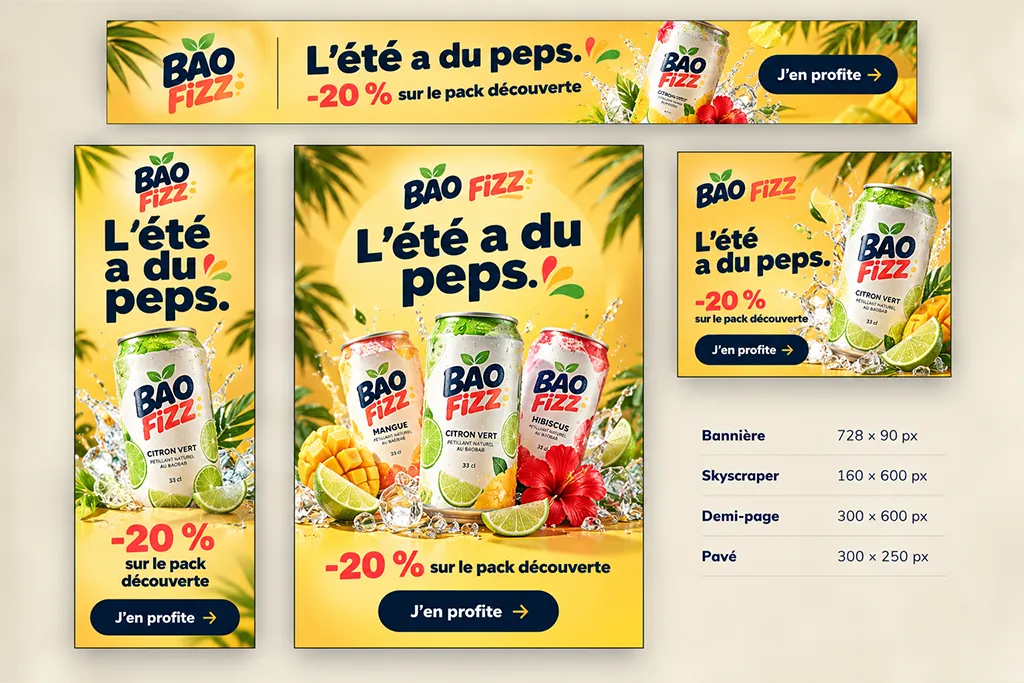
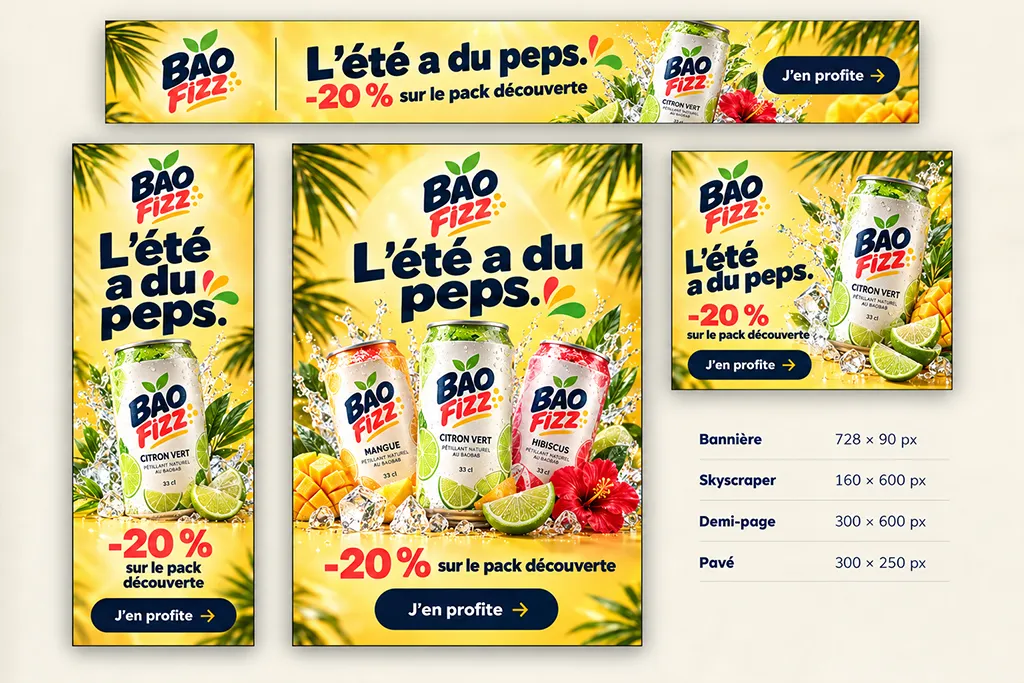
Bao Fizz : galerie finale du propriétaire ; historique prêt pour la mise en production
- Planche 2 remplacée, planches 3 et 4 retirées, fiche alignée (plus de newsletter)

- Historique : état actuel réécrit

diff --git a/HISTORIQUE.md b/HISTORIQUE.md
@@ -4,23 +4,23 @@ Document de passation entre sessions et entre assistants IA.
 Règles et organisation du projet : voir [AGENTS.md](AGENTS.md).
 **À mettre à jour à la fin de chaque session.**
 
-Dernière mise à jour : 03/10/2026
+Dernière mise à jour : 04/10/2026
 
 ## État actuel
 
-- **En production** (<https://gasinsary.github.io/>) : l'ancien site, en HTML écrit à la main (branche `main`, dernier commit `699624a`).
-- **Sur la version de test** (<https://gasinsary.github.io/staging-t4sj762s/>) : le site converti à Jekyll + la connexion Supabase (branche locale `staging`).
-- **En attente** : la validation de la version de test par le propriétaire, avant mise en production.
-- Attention : la branche `staging` n'existe que sur le dépôt de test et en local. Elle n'a pas été poussée sur le dépôt de production.
+- **En production depuis le 04/10/2026** (<https://gasinsary.github.io/>) : le site Jekyll complet (accueil réorienté vers les clients étrangers, portfolio avec les projets concept Voara et Bao Fizz, connexion Supabase). Mise en production demandée explicitement par le propriétaire. La branche `main` du dépôt de production et la branche `staging` pointent sur le même commit.
+- **Version de test** (<https://gasinsary.github.io/staging-t4sj762s/>) : identique à la production à cette date. Elle reste l'endroit où vérifier tout changement avant de le publier.
+- Avant cette date, la production affichait l'ancien site en HTML écrit à la main (commit `699624a`).
 
 ## En cours
 
-- **Pas de mise en production pour l'instant** (décision du propriétaire, 03/10/2026) : le site est d'abord mis à jour sur la version de test.
-- **Corrections de l'audit** : le propriétaire a validé l'ordre de traitement proposé à la fin de [AUDIT.md](AUDIT.md). Étapes 1 (contact), 2 (défauts mobiles), 3 (titres `<h1>`, textes, positionnement) et 4 (poids des pages) faites sur la version de test ; prochaine étape : 5 (contenu : ajouter des projets, dont des sites web, avec des titres précis). Elle dépend du propriétaire, qui doit fournir les projets.
-- **Formulaire de contact** : le propriétaire doit faire un envoi réel depuis la version de test pour confirmer que le message arrive et que la confirmation s'affiche.
-- **À faire valider par le propriétaire** : la relecture des textes réécrits, et le titre « Fondateur & directeur artistique » (proposé, appliqué, pas confirmé explicitement).
+- **Formulaire de contact** : jamais testé par un envoi réel. Le propriétaire doit envoyer un message depuis le site en production pour confirmer qu'il arrive et que la confirmation s'affiche.
+- **Affirmations publiées sans confirmation explicite du propriétaire** : échanges possibles en visio, devis « au projet ou à la journée », disponibilité pendant les heures de bureau européennes, « Français, anglais », titre « Fondateur & directeur artistique ». À corriger s'il en signale une fausse.
+- **Réponse à l'agence Digital Prod** : à rédiger avec le propriétaire (tarif journalier à fixer), maintenant que le portfolio est en ligne.
+- **Google Search Console** : déclarer `https://gasinsary.github.io/sitemap.xml` (à faire par le propriétaire).
+- **Audit** : étapes 1 à 4 faites, étape 5 (contenu) en partie avec les deux projets concept. Restent : page 404, contraste et accessibilité, refonte de « À propos » et des barres de compétences, une page par service.
 
-## Portfolio : projets concept pour l'agence Digital Prod (en cours)
+## Portfolio : projets concept pour l'agence Digital Prod (publiés)
 
 - **Contexte** : le 02/10/2026, le propriétaire a reçu un e-mail de milan@digitalprod.com (Digital Prod, agence parisienne de production de contenus digitaux) lui demandant sa disponibilité en freelance, son tarif journalier et un portfolio récent. L'agence est réelle (SIREN 511 233 595, domaine officiel `digitalprod.com`) ; l'appartenance de l'expéditeur à l'agence n'a pas pu être confirmée publiquement.
 - **Contrainte** : les vrais projets du propriétaire n'ont pas l'accord des clients pour être publiés. Décision : deux **projets concept** (marques fictives, annoncés comme tels), ciblés sur ce que l'agence produit (réseaux sociaux, bannières, e-mailing pour des marques de beauté et de grande consommation).
@@ -29,7 +29,7 @@ Dernière mise à jour : 03/10/2026
 - **Voara, suite** : le 03/10/2026 au soir, le propriétaire a remplacé la couverture et les quatre planches par ses propres versions retravaillées (flacon et fruit de baobab photoréalistes, emblème végétal ajouté au logo). Les fichiers de `briefs/voara-visuels/` et le script correspondent donc à l'ancienne version générée, plus à ce qui est en ligne. Le propriétaire a ensuite validé : outils Photoshop et Illustrator, `brouillon` retiré, projet affiché sur l'accueil (`accueil: true`), planche 4 remplacée par une version au logo harmonisé. **Le projet Voara est terminé et sera publié à la prochaine mise en production.**
 - **Bao Fizz** (04/10/2026) : direction artistique dans `briefs/bao-fizz-direction-artistique.html`. Les six formats (visuel principal, newsletter, quatre bannières) et les cinq planches ont été **générés par l'assistant** (script `briefs/outils/generer-visuels-bao-fizz.py`, Pillow) : canette et formes dessinées, aucune photographie. Fichiers dans `briefs/bao-fizz-visuels/` et `portfolio/campagne-publicitaire-bao-fizz/img/`. La fiche reste en **brouillon** tant que le propriétaire n'a pas validé ou remplacé les images, comme il l'a fait pour Voara.
 - **Bao Fizz, suite** (04/10/2026) : le propriétaire a remplacé la couverture et les quatre planches par ses versions (canettes et fruits photoréalistes, nouveau logo à feuilles) et en a ajouté deux : `planche-5` (direction artistique) et `planche-6` (posts Instagram). `brouillon` retiré : **le projet Bao Fizz est terminé et sera publié à la prochaine mise en production.** Il n'est pas affiché sur l'accueil (non demandé). `planche-6` a été fournie en 3000 × 3000 px : l'original est conservé dans `briefs/bao-fizz-visuels/originaux/`, la version du site est ramenée à 1024 × 683 px sur le même fond jaune. Le dossier `briefs/bao-fizz-visuels/` (hors `originaux/`), la planche HTML de direction artistique et le script décrivent l'ancienne version générée, plus ce qui est en ligne.
-- **À faire ensuite** : relire les textes des deux pages par rapport aux visuels réels, retirer `brouillon` et `sitemap: false`, éventuellement passer `accueil: true`, puis rédiger la réponse à l'agence (tarif journalier à fixer avec le propriétaire).
+- **Bao Fizz, version finale** (04/10/2026) : le propriétaire a encore modifié `planche-2` et supprimé `planche-3` et `planche-4` (bannières et newsletter en situation). La galerie compte quatre images : logo, direction artistique, bannières, posts Instagram. La fiche ne mentionne plus de newsletter.
 - **Questions sans réponse** : le projet Aquafish est-il un vrai client ? (s'il est fictif : `concept: true` et retirer le témoignage) ; faut-il mettre la nouvelle version en production avant de répondre à l'agence ?
 - Les noms Voara et Bao Fizz n'ont fait l'objet que d'une recherche web rapide, pas d'une recherche de marque déposée.
 
@@ -173,3 +173,7 @@ Liste complète et ordre de traitement proposé : voir [AUDIT.md](AUDIT.md). Rap
 **Bao Fizz publié dans le portfolio**
 - Images du propriétaire vérifiées (WebP, 1024 × 683 px), deux planches ajoutées à la galerie, `planche-6` mise au format.
 - Fiche alignée sur les nouvelles images : textes alternatifs, livrables, étapes, résultat ; image de partage `couverture.jpg` recréée à partir de la nouvelle couverture (le propriétaire avait supprimé l'ancienne).
+
+**Mise en production**
+- Bao Fizz : galerie ramenée à quatre images, mentions de la newsletter retirées de la fiche.
+- `staging` fusionnée dans `main` (avance rapide) et poussée sur `origin` à la demande du propriétaire.

diff --git a/_projets/campagne-publicitaire-bao-fizz.md b/_projets/campagne-publicitaire-bao-fizz.md
@@ -9,27 +9,27 @@ concept: true
 title: "Campagne publicitaire déclinée pour Bao Fizz, boisson pétillante au baobab"
 titre_court: "Campagne publicitaire Bao Fizz"
 titre_seo: "Bannières publicitaires : campagne Bao Fizz | Gas'in Sary"
-description: "Un visuel de campagne décliné en quatre bannières publicitaires et une newsletter. Projet concept de Gas'in Sary, studio créatif freelance à Madagascar."
+description: "Un visuel de campagne décliné en quatre bannières publicitaires et en posts Instagram. Projet concept de Gas'in Sary, studio créatif freelance à Madagascar."
 
 # Carte dans la grille du portfolio
 ordre: 0.2
 categorie: campagne
 titre_carte: "Campagne publicitaire Bao Fizz"
-resume: "Un visuel décliné en bannières, newsletter et posts Instagram"
+resume: "Un visuel décliné en bannières et en posts Instagram"
 image: /portfolio/campagne-publicitaire-bao-fizz/img/couverture.webp
 # Image utilisée pour les partages sur les réseaux sociaux (JPG)
 image_partage: /portfolio/campagne-publicitaire-bao-fizz/img/couverture.jpg
 alt: "Campagne publicitaire pour la boisson Bao Fizz, projet concept de Gas'in Sary"
 
 # Page détaillée
-intro: "Bao Fizz est une marque fictive de boisson pétillante au fruit du baobab. Nous avons imaginé sa campagne d'été, puis décliné le visuel principal en quatre bannières publicitaires, en un en-tête de newsletter et en posts pour Instagram."
+intro: "Bao Fizz est une marque fictive de boisson pétillante au fruit du baobab. Nous avons imaginé sa campagne d'été, puis décliné le visuel principal en quatre bannières publicitaires et en posts pour Instagram."
 
 badge: "Campagne digitale"
-prestation: "Bannières, e-mailing, réseaux sociaux"
+prestation: "Bannières et réseaux sociaux"
 date_projet: "Octobre 2026"
 client: "Bao Fizz, marque fictive (projet concept)"
 type_projet: "Déclinaison d'une campagne publicitaire"
-livrables: "1 visuel principal, 4 bannières, 1 en-tête de newsletter, 3 posts Instagram"
+livrables: "1 visuel principal, 4 bannières, 3 posts Instagram"
 outils:
   - Photoshop
   - Illustrator
@@ -37,14 +37,10 @@ outils:
 galerie:
   - image: /portfolio/campagne-publicitaire-bao-fizz/img/planche-1.webp
     alt: "Logo Bao Fizz et canette posée sur de la glace et des fruits, avec la signature « Du soleil en canette »"
-  - image: /portfolio/campagne-publicitaire-bao-fizz/img/planche-2.webp
-    alt: "Quatre bannières publicitaires Bao Fizz : 728 × 90, 160 × 600, 300 × 600 et 300 × 250 pixels"
-  - image: /portfolio/campagne-publicitaire-bao-fizz/img/planche-3.webp
-    alt: "Bannières publicitaires Bao Fizz affichées dans une page web"
-  - image: /portfolio/campagne-publicitaire-bao-fizz/img/planche-4.webp
-    alt: "En-tête de newsletter Bao Fizz affiché dans une messagerie"
   - image: /portfolio/campagne-publicitaire-bao-fizz/img/planche-5.webp
     alt: "Direction artistique de Bao Fizz : variantes du logo, palette de couleurs, icônes et typographies"
+  - image: /portfolio/campagne-publicitaire-bao-fizz/img/planche-2.webp
+    alt: "Quatre bannières publicitaires Bao Fizz : 728 × 90, 160 × 600, 300 × 600 et 300 × 250 pixels"
   - image: /portfolio/campagne-publicitaire-bao-fizz/img/planche-6.webp
     alt: "Trois posts Instagram de la campagne Bao Fizz présentés dans des téléphones"
 
@@ -58,11 +54,11 @@ etapes:
   - titre: "Bannières publicitaires"
     icone: bi-grid-1x2
     texte: "Le visuel a été recomposé pour quatre formats standard : 300 × 250, 728 × 90, 160 × 600 et 300 × 600 pixels. Chaque bannière garde le logo, l'accroche, le produit et le bouton."
-  - titre: "Newsletter et réseaux sociaux"
-    icone: bi-envelope-paper
-    texte: "L'en-tête de newsletter reprend la campagne dans un format de 600 pixels de large, pensé pour la lecture sur téléphone comme sur ordinateur. Trois posts Instagram prolongent la campagne avec d'autres accroches."
+  - titre: "Réseaux sociaux"
+    icone: bi-instagram
+    texte: "Trois posts Instagram prolongent la campagne avec d'autres accroches, dans le même univers de fruits, de glace et de soleil."
 
-appel: "Vous devez décliner une campagne en bannières, en e-mailing ou en visuels pour les réseaux sociaux ? Le studio Gas'in Sary prend en charge la production à distance, pour les marques comme pour les agences. Parlons de votre projet."
+appel: "Vous devez décliner une campagne en bannières ou en visuels pour les réseaux sociaux ? Le studio Gas'in Sary prend en charge la production à distance, pour les marques comme pour les agences. Parlons de votre projet."
 
-resultat: "La campagne se décline en bannières, en newsletter et en posts pour les réseaux sociaux. Dans le format le plus contraint comme dans le plus généreux, la marque reste reconnaissable et le message complet."
+resultat: "La campagne se décline en bannières publicitaires et en posts pour les réseaux sociaux. Dans le format le plus contraint comme dans le plus généreux, la marque reste reconnaissable et le message complet."
 ---
